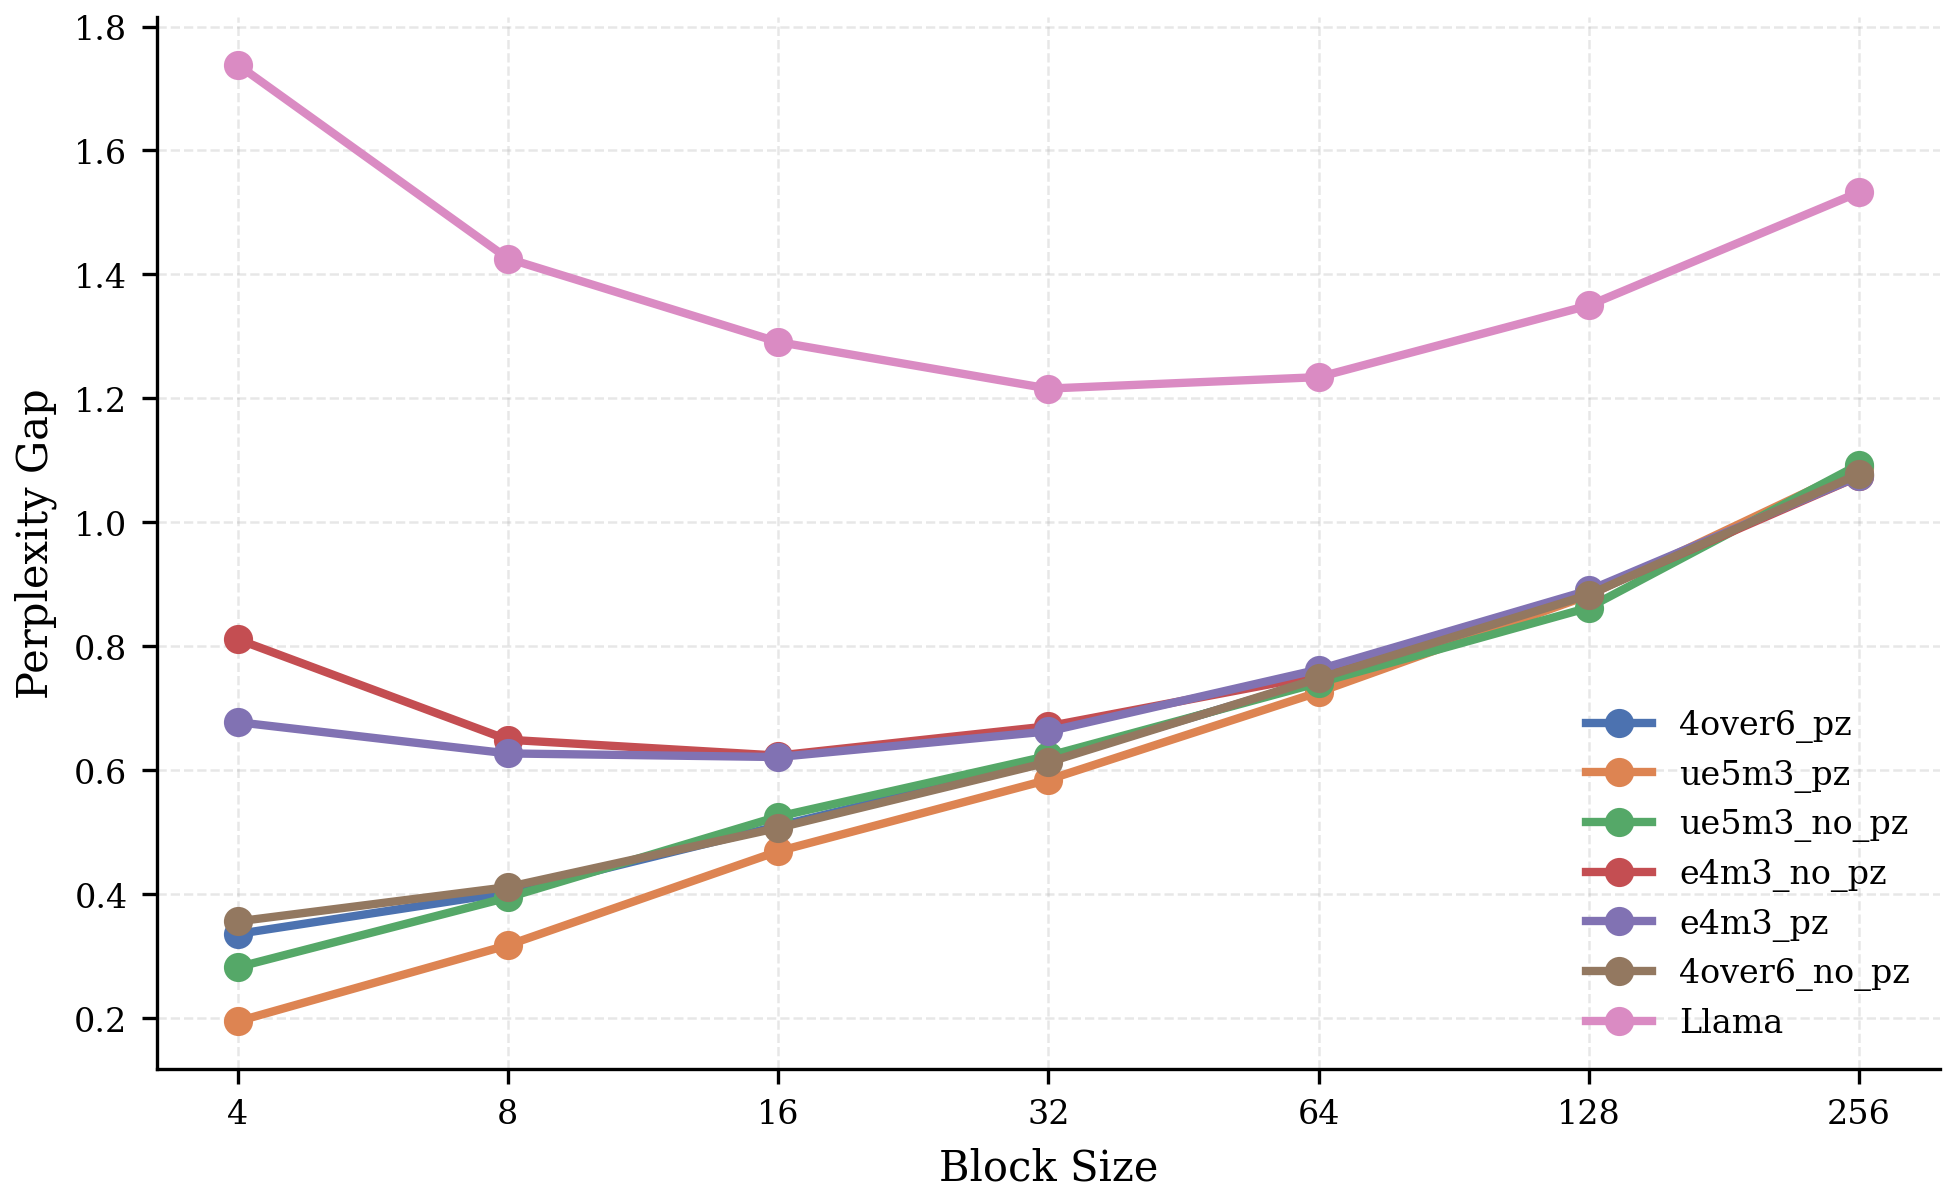
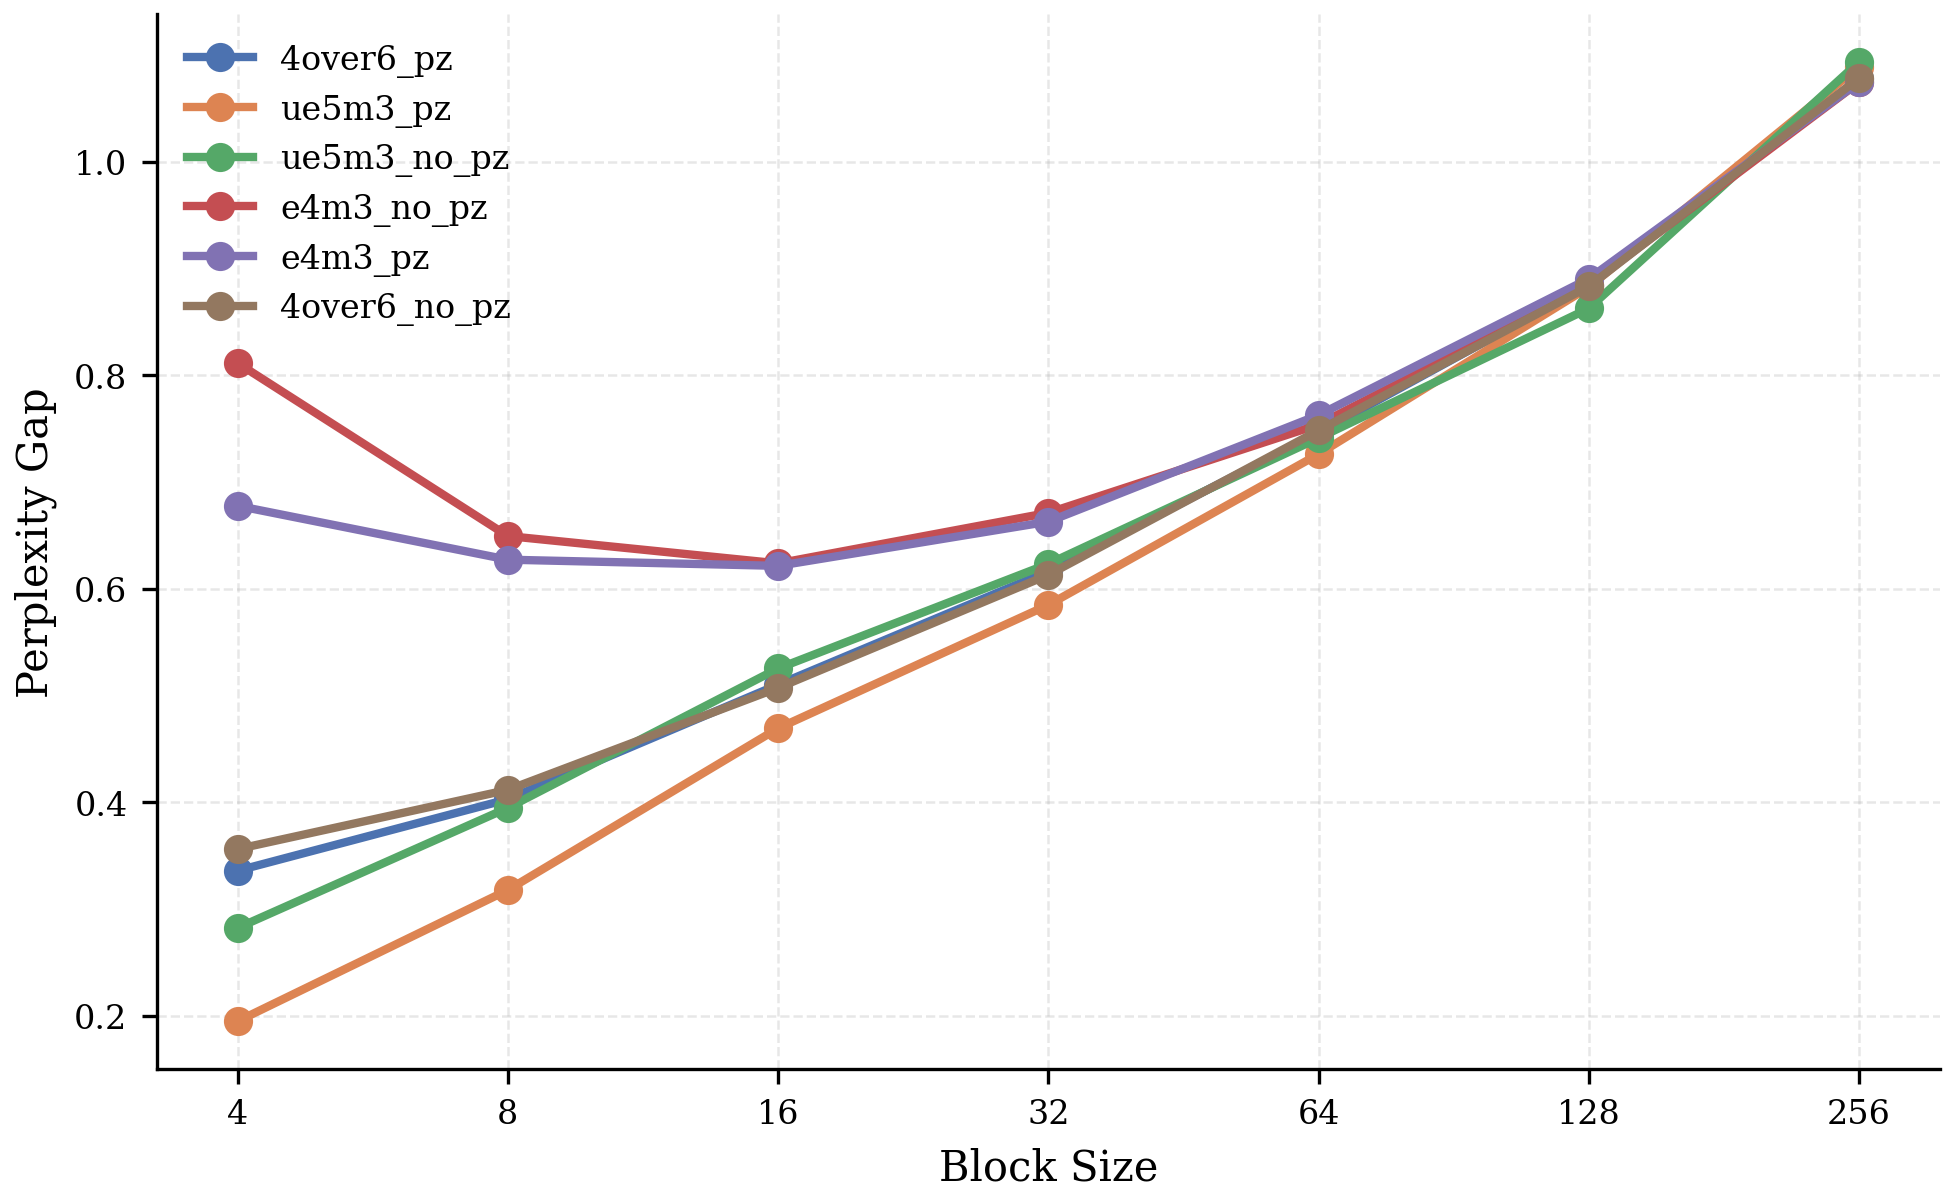
Clean up tables, remove broken plots, and regenerate

diff --git a/README.md b/README.md
@@ -63,106 +63,59 @@ This section is automatically updated by the evaluation script after each run. D
 
 <!-- RESULTS_START -->
 
-|                       |   Baseline |   BS=4 |   BS=8 |   BS=16 |   BS=32 |   BS=64 |   BS=128 |   BS=256 |
-|:----------------------|-----------:|-------:|-------:|--------:|--------:|--------:|---------:|---------:|
-| Llama_4over6_pz       |     nan    |   0.34 |   0.4  |    0.51 |    0.62 |    0.75 |     0.88 |     1.08 |
-| Llama_ue5m3_pz        |     nan    |   0.19 |   0.32 |    0.47 |    0.58 |    0.73 |     0.88 |     1.09 |
-| Llama_e4m3            |       6.33 | nan    | nan    |  nan    |  nan    |  nan    |   nan    |   nan    |
-| Llama_ue5m3_no_pz     |     nan    |   0.28 |   0.39 |    0.53 |    0.62 |    0.74 |     0.86 |     1.09 |
-| Llama_e4m3_no_pz      |     nan    |   0.81 |   0.65 |    0.62 |    0.67 |    0.75 |     0.88 |     1.07 |
-| Llama_e4m3_pz         |     nan    |   0.68 |   0.63 |    0.62 |    0.66 |    0.76 |     0.89 |     1.07 |
-| Llama_4over6_no_pz    |     nan    |   0.36 |   0.41 |    0.51 |    0.61 |    0.75 |     0.88 |     1.08 |
-| Granite_e4m3_pz       |     nan    |   0.96 |   0.88 |    0.83 |    0.87 |    0.96 |     1.13 |     1.5  |
-| Granite_e4m3_no_pz    |     nan    |   1.06 |   0.89 |    0.83 |    0.86 |    0.96 |     1.13 |     1.5  |
-| Granite_4over6_no_pz  |     nan    |   0.62 |   0.67 |    0.75 |    0.88 |    0.97 |     1.13 |     1.48 |
-| Granite_4over6_pz     |     nan    |   0.62 |   0.67 |    0.75 |    0.89 |    0.97 |     1.13 |     1.48 |
-| Granite_ue5m3_no_pz   |     nan    |   0.16 |   0.23 |    0.3  |    0.38 |    0.57 |     0.79 |     1.19 |
-| Granite_ue5m3_pz      |     nan    |   0.11 |   0.17 |    0.25 |    0.36 |    0.57 |     0.77 |     1.23 |
-| DeepSeek_e4m3_pz      |     nan    |   0.4  |   0.52 |    0.66 |    0.82 |    0.98 |     1.19 |     1.51 |
-| DeepSeek_e4m3_no_pz   |     nan    |   0.4  |   0.52 |    0.65 |    0.82 |    0.99 |     1.19 |     1.51 |
-| DeepSeek_4over6_no_pz |     nan    |   0.25 |   0.38 |    0.54 |    0.73 |    0.93 |     1.19 |     1.49 |
-| DeepSeek_4over6_pz    |     nan    |   0.25 |   0.39 |    0.54 |    0.74 |    0.94 |     1.19 |     1.49 |
-| DeepSeek_ue5m3_no_pz  |     nan    |   0.32 |   0.48 |    0.64 |    0.82 |    0.97 |     1.22 |     1.53 |
-| DeepSeek_ue5m3_pz     |     nan    |   0.24 |   0.36 |    0.54 |    0.72 |    0.92 |     1.2  |     1.53 |
-| Qwen_e4m3_no_pz       |     nan    |   0.47 |   0.49 |    0.56 |    0.65 |    0.81 |     1.04 |     1.49 |
-| Llama                 |     nan    |   1.74 |   1.43 |    1.29 |    1.22 |    1.23 |     1.35 |     1.53 |
-| Granite               |     nan    | nan    | nan    |  nan    |  nan    |  nan    |   nan    |   nan    |
-| Qwen                  |     nan    | nan    | nan    |  nan    |  nan    |  nan    |   nan    |   nan    |
-| DeepSeek              |     nan    | nan    | nan    |  nan    |  nan    |  nan    |   nan    |   nan    |
+### DeepSeek
+
+|              |   Baseline |   BS=4 |   BS=8 |   BS=16 |   BS=32 |   BS=64 |   BS=128 |   BS=256 |
+|:-------------|-----------:|-------:|-------:|--------:|--------:|--------:|---------:|---------:|
+| e4m3_pz      |        nan |   0.4  |   0.52 |    0.66 |    0.82 |    0.98 |     1.19 |     1.51 |
+| e4m3_no_pz   |        nan |   0.4  |   0.52 |    0.65 |    0.82 |    0.99 |     1.19 |     1.51 |
+| 4over6_no_pz |        nan |   0.25 |   0.38 |    0.54 |    0.73 |    0.93 |     1.19 |     1.49 |
+| 4over6_pz    |        nan |   0.25 |   0.39 |    0.54 |    0.74 |    0.94 |     1.19 |     1.49 |
+| ue5m3_no_pz  |        nan |   0.32 |   0.48 |    0.64 |    0.82 |    0.97 |     1.22 |     1.53 |
+| ue5m3_pz     |        nan |   0.24 |   0.36 |    0.54 |    0.72 |    0.92 |     1.2  |     1.53 |
+
+### Granite
+
+|              |   Baseline |   BS=4 |   BS=8 |   BS=16 |   BS=32 |   BS=64 |   BS=128 |   BS=256 |
+|:-------------|-----------:|-------:|-------:|--------:|--------:|--------:|---------:|---------:|
+| e4m3_pz      |        nan |   0.96 |   0.88 |    0.83 |    0.87 |    0.96 |     1.13 |     1.5  |
+| e4m3_no_pz   |        nan |   1.06 |   0.89 |    0.83 |    0.86 |    0.96 |     1.13 |     1.5  |
+| 4over6_no_pz |        nan |   0.62 |   0.67 |    0.75 |    0.88 |    0.97 |     1.13 |     1.48 |
+| 4over6_pz    |        nan |   0.62 |   0.67 |    0.75 |    0.89 |    0.97 |     1.13 |     1.48 |
+| ue5m3_no_pz  |        nan |   0.16 |   0.23 |    0.3  |    0.38 |    0.57 |     0.79 |     1.19 |
+| ue5m3_pz     |        nan |   0.11 |   0.17 |    0.25 |    0.36 |    0.57 |     0.77 |     1.23 |
+
+### Llama
+
+|              |   Baseline |   BS=4 |   BS=8 |   BS=16 |   BS=32 |   BS=64 |   BS=128 |   BS=256 |
+|:-------------|-----------:|-------:|-------:|--------:|--------:|--------:|---------:|---------:|
+| 4over6_pz    |     nan    |   0.34 |   0.4  |    0.51 |    0.62 |    0.75 |     0.88 |     1.08 |
+| ue5m3_pz     |     nan    |   0.19 |   0.32 |    0.47 |    0.58 |    0.73 |     0.88 |     1.09 |
+| e4m3         |       6.33 | nan    | nan    |  nan    |  nan    |  nan    |   nan    |   nan    |
+| ue5m3_no_pz  |     nan    |   0.28 |   0.39 |    0.53 |    0.62 |    0.74 |     0.86 |     1.09 |
+| e4m3_no_pz   |     nan    |   0.81 |   0.65 |    0.62 |    0.67 |    0.75 |     0.88 |     1.07 |
+| e4m3_pz      |     nan    |   0.68 |   0.63 |    0.62 |    0.66 |    0.76 |     0.89 |     1.07 |
+| 4over6_no_pz |     nan    |   0.36 |   0.41 |    0.51 |    0.61 |    0.75 |     0.88 |     1.08 |
+
+### Qwen
+
+|            |   Baseline |   BS=4 |   BS=8 |   BS=16 |   BS=32 |   BS=64 |   BS=128 |   BS=256 |
+|:-----------|-----------:|-------:|-------:|--------:|--------:|--------:|---------:|---------:|
+| e4m3_no_pz |        nan |   0.47 |   0.49 |    0.56 |    0.65 |    0.81 |     1.04 |     1.49 |
 
 ### Graphs
 <table>
   <tr>
-    <td><img src="plots/gap_llama_4over6_pz.png" alt="Llama_4over6_pz Gap" width="400">
-<p align="center">Llama_4over6_pz Gap</p></td>
-    <td><img src="plots/gap_llama_ue5m3_pz.png" alt="Llama_ue5m3_pz Gap" width="400">
-<p align="center">Llama_ue5m3_pz Gap</p></td>
-  </tr>
-  <tr>
-    <td><img src="plots/gap_llama_e4m3.png" alt="Llama_e4m3 Gap" width="400">
-<p align="center">Llama_e4m3 Gap</p></td>
-    <td><img src="plots/gap_llama_ue5m3_no_pz.png" alt="Llama_ue5m3_no_pz Gap" width="400">
-<p align="center">Llama_ue5m3_no_pz Gap</p></td>
-  </tr>
-  <tr>
-    <td><img src="plots/gap_llama_e4m3_no_pz.png" alt="Llama_e4m3_no_pz Gap" width="400">
-<p align="center">Llama_e4m3_no_pz Gap</p></td>
-    <td><img src="plots/gap_llama_e4m3_pz.png" alt="Llama_e4m3_pz Gap" width="400">
-<p align="center">Llama_e4m3_pz Gap</p></td>
-  </tr>
-  <tr>
-    <td><img src="plots/gap_llama_4over6_no_pz.png" alt="Llama_4over6_no_pz Gap" width="400">
-<p align="center">Llama_4over6_no_pz Gap</p></td>
-    <td><img src="plots/gap_granite_e4m3_pz.png" alt="Granite_e4m3_pz Gap" width="400">
-<p align="center">Granite_e4m3_pz Gap</p></td>
-  </tr>
-  <tr>
-    <td><img src="plots/gap_granite_e4m3_no_pz.png" alt="Granite_e4m3_no_pz Gap" width="400">
-<p align="center">Granite_e4m3_no_pz Gap</p></td>
-    <td><img src="plots/gap_granite_4over6_no_pz.png" alt="Granite_4over6_no_pz Gap" width="400">
-<p align="center">Granite_4over6_no_pz Gap</p></td>
-  </tr>
-  <tr>
-    <td><img src="plots/gap_granite_4over6_pz.png" alt="Granite_4over6_pz Gap" width="400">
-<p align="center">Granite_4over6_pz Gap</p></td>
-    <td><img src="plots/gap_granite_ue5m3_no_pz.png" alt="Granite_ue5m3_no_pz Gap" width="400">
-<p align="center">Granite_ue5m3_no_pz Gap</p></td>
-  </tr>
-  <tr>
-    <td><img src="plots/gap_granite_ue5m3_pz.png" alt="Granite_ue5m3_pz Gap" width="400">
-<p align="center">Granite_ue5m3_pz Gap</p></td>
-    <td><img src="plots/gap_deepseek_e4m3_pz.png" alt="DeepSeek_e4m3_pz Gap" width="400">
-<p align="center">DeepSeek_e4m3_pz Gap</p></td>
-  </tr>
-  <tr>
-    <td><img src="plots/gap_deepseek_e4m3_no_pz.png" alt="DeepSeek_e4m3_no_pz Gap" width="400">
-<p align="center">DeepSeek_e4m3_no_pz Gap</p></td>
-    <td><img src="plots/gap_deepseek_4over6_no_pz.png" alt="DeepSeek_4over6_no_pz Gap" width="400">
-<p align="center">DeepSeek_4over6_no_pz Gap</p></td>
-  </tr>
-  <tr>
-    <td><img src="plots/gap_deepseek_4over6_pz.png" alt="DeepSeek_4over6_pz Gap" width="400">
-<p align="center">DeepSeek_4over6_pz Gap</p></td>
-    <td><img src="plots/gap_deepseek_ue5m3_no_pz.png" alt="DeepSeek_ue5m3_no_pz Gap" width="400">
-<p align="center">DeepSeek_ue5m3_no_pz Gap</p></td>
-  </tr>
-  <tr>
-    <td><img src="plots/gap_deepseek_ue5m3_pz.png" alt="DeepSeek_ue5m3_pz Gap" width="400">
-<p align="center">DeepSeek_ue5m3_pz Gap</p></td>
-    <td><img src="plots/gap_qwen_e4m3_no_pz.png" alt="Qwen_e4m3_no_pz Gap" width="400">
-<p align="center">Qwen_e4m3_no_pz Gap</p></td>
-  </tr>
-  <tr>
-    <td><img src="plots/gap_llama.png" alt="Llama Gap" width="400">
-<p align="center">Llama Gap</p></td>
+    <td><img src="plots/gap_deepseek.png" alt="DeepSeek Gap" width="400">
+<p align="center">DeepSeek Gap</p></td>
     <td><img src="plots/gap_granite.png" alt="Granite Gap" width="400">
 <p align="center">Granite Gap</p></td>
   </tr>
   <tr>
+    <td><img src="plots/gap_llama.png" alt="Llama Gap" width="400">
+<p align="center">Llama Gap</p></td>
     <td><img src="plots/gap_qwen.png" alt="Qwen Gap" width="400">
 <p align="center">Qwen Gap</p></td>
-    <td><img src="plots/gap_deepseek.png" alt="DeepSeek Gap" width="400">
-<p align="center">DeepSeek Gap</p></td>
   </tr>
 </table>
 
